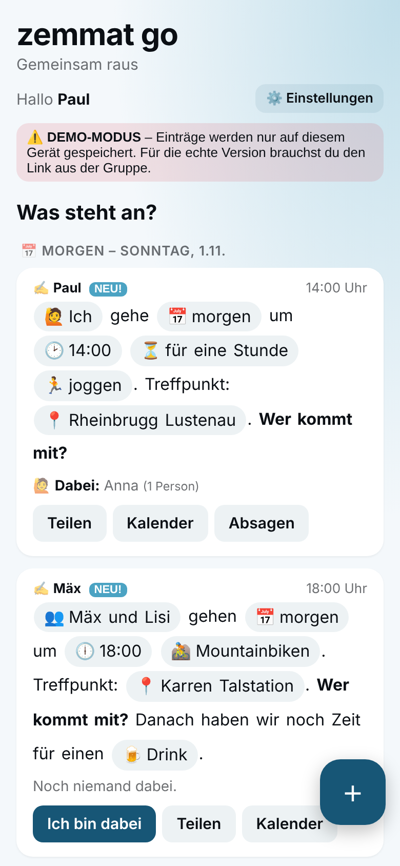
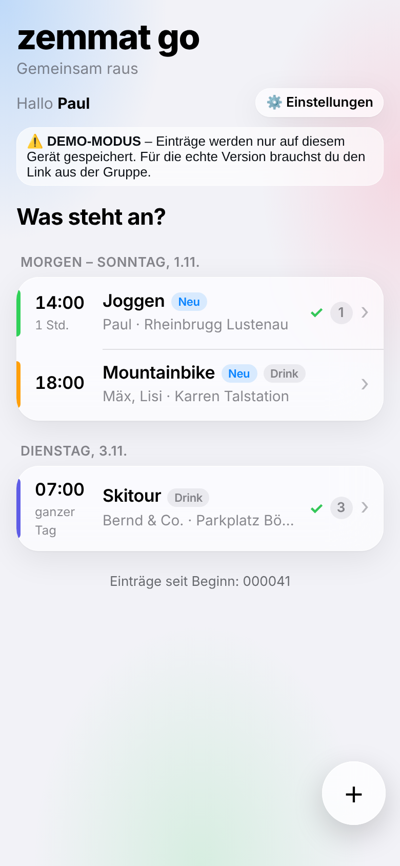
v1.4: Langweilig als eigene iOS-2026-Oberfläche – Terminliste, Detail-Sheet, Eingabeformular
Claude-Session: https://claude.ai/code/session_01J2EUEaQWZNyzNwErDHdukf

diff --git a/index.html b/index.html
@@ -218,6 +218,94 @@ footer{border-top:3px double var(--navy); text-align:center; padding:12px 8px 16
 [data-theme=modern] footer{border:0; color:var(--m-muted); font:13px var(--m-font)}
 [data-theme=modern] .lcd{background:none; border:0; color:var(--m-muted); font:inherit; letter-spacing:0; padding:0}
 [data-theme=modern] .err{font-family:var(--m-font)}
+/* ---------- Langweilig = iOS 2026 (Liquid Glass) ---------- */
+[data-theme=modern]{
+  --g-bg:#f2f2f7; --g-glass:rgba(255,255,255,.62); --g-glass2:rgba(255,255,255,.78); --g-edge:rgba(255,255,255,.75); --g-hair:rgba(60,60,67,.14);
+  --g-ink:#000; --g-sec:rgba(60,60,67,.6); --g-tint:#0a84ff; --g-red:#ff3b30; --g-green:#34c759; --g-fill:rgba(118,118,128,.12);
+  --g-shadow:0 8px 32px rgba(0,0,0,.08), 0 1px 2px rgba(0,0,0,.04);
+}
+@media (prefers-color-scheme:dark){[data-theme=modern]{
+  --g-bg:#000; --g-glass:rgba(44,44,46,.55); --g-glass2:rgba(44,44,46,.82); --g-edge:rgba(255,255,255,.14); --g-hair:rgba(84,84,88,.5);
+  --g-ink:#fff; --g-sec:rgba(235,235,245,.6); --g-tint:#0a84ff; --g-fill:rgba(118,118,128,.24); --g-shadow:0 8px 32px rgba(0,0,0,.5);
+}}
+html[data-theme=modern]{background:var(--g-bg)}
+[data-theme=modern] body{min-height:100vh; color:var(--g-ink); background:
+  radial-gradient(60% 40% at 0% 0%, rgba(10,132,255,.22), transparent 70%),
+  radial-gradient(50% 35% at 100% 20%, rgba(255,55,95,.14), transparent 70%),
+  radial-gradient(60% 40% at 50% 100%, rgba(48,209,88,.14), transparent 70%), var(--g-bg) fixed; font-family:var(--m-font)}
+[data-theme=modern] .wordart{font-size:34px; font-weight:800; letter-spacing:-.8px; color:var(--g-ink)}
+[data-theme=modern] .sub, [data-theme=modern] .hello{color:var(--g-sec)}
+[data-theme=modern] .hello b{color:var(--g-ink)}
+[data-theme=modern] #setBtn{background:var(--g-glass); -webkit-backdrop-filter:blur(20px) saturate(180%); backdrop-filter:blur(20px) saturate(180%);
+  box-shadow:inset 0 0 0 .5px var(--g-edge), var(--g-shadow); border-radius:999px; color:var(--g-ink)}
+[data-theme=modern] main h2{font-size:22px; font-weight:700; letter-spacing:-.4px; color:var(--g-ink)}
+[data-theme=modern] .demo{background:var(--g-glass); -webkit-backdrop-filter:blur(20px); backdrop-filter:blur(20px); box-shadow:inset 0 0 0 .5px var(--g-edge); border-radius:16px; font-size:13px}
+.ios-sec{display:none}
+[data-theme=modern] .ios-sec{display:block; background:none; color:var(--g-sec); font:600 13px var(--m-font); text-transform:uppercase; letter-spacing:.4px; margin:22px 4px 6px; padding:0}
+.ios-list{border-radius:22px; overflow:hidden; background:var(--g-glass); -webkit-backdrop-filter:blur(24px) saturate(180%); backdrop-filter:blur(24px) saturate(180%);
+  box-shadow:inset 0 0 0 .5px var(--g-edge), inset 0 1px 0 rgba(255,255,255,.35), var(--g-shadow)}
+.ios-row{all:unset; box-sizing:border-box; display:flex; align-items:center; gap:14px; width:100%; padding:12px 14px 12px 18px; cursor:pointer; position:relative; font-family:var(--m-font); color:var(--g-ink)}
+.ios-row + .ios-row::before{content:""; position:absolute; top:0; left:84px; right:0; border-top:.5px solid var(--g-hair)}
+.ios-row::after{content:""; position:absolute; left:0; top:12px; bottom:12px; width:4px; border-radius:0 4px 4px 0; background:var(--sc,var(--g-tint))}
+.ios-row:active{background:var(--g-fill)}
+.ios-row.flash{animation:iosflash 1.4s 2} @keyframes iosflash{50%{background:rgba(10,132,255,.14)}}
+.ios-time{display:flex; flex-direction:column; width:52px; flex:none; font-variant-numeric:tabular-nums}
+.ios-time b{font-size:17px; font-weight:600} .ios-time small{font-size:12px; color:var(--g-sec)}
+.ios-main{flex:1; min-width:0; display:flex; flex-direction:column; gap:1px}
+.ios-title{font-size:17px; font-weight:600; letter-spacing:-.2px; display:flex; align-items:center; gap:6px}
+.ios-sub{font-size:14px; color:var(--g-sec); white-space:nowrap; overflow:hidden; text-overflow:ellipsis}
+.ios-new, .ios-tag{font:600 11px var(--m-font); font-style:normal; padding:2px 7px; border-radius:999px; background:rgba(10,132,255,.14); color:var(--g-tint)}
+.ios-tag{background:var(--g-fill); color:var(--g-sec)}
+.ios-acc{display:flex; align-items:center; gap:6px; flex:none}
+.ios-acc i{font-style:normal}
+.ios-count{min-width:22px; height:22px; border-radius:11px; background:var(--g-fill); color:var(--g-sec); font:600 13px/22px var(--m-font); text-align:center; padding:0 6px}
+.ios-ok{color:var(--g-green); font-weight:700}
+.ios-chev{color:var(--g-sec); font-size:22px; opacity:.6; margin-left:2px}
+.s-mtb{--sc:#ff9f0a} .s-rennrad{--sc:#ff375f} .s-gravel{--sc:#a2845e} .s-jogga{--sc:#30d158} .s-wandra{--sc:#64d2ff}
+.s-klettra{--sc:#bf5af2} .s-schitour{--sc:#5e5ce6} .s-langlauf{--sc:#40c8e0} .s-schwimma{--sc:#0a84ff} .s-anders{--sc:#8e8e93}
+.ios-empty{display:flex; flex-direction:column; align-items:center; gap:6px; padding:56px 20px; text-align:center; color:var(--g-sec); font-family:var(--m-font)}
+.ios-empty b{font-size:20px; color:var(--g-ink)}
+.ios-btn{all:unset; box-sizing:border-box; margin-top:14px; padding:13px 22px; border-radius:999px; background:var(--g-tint); color:#fff; font:600 17px var(--m-font); cursor:pointer; text-align:center;
+  box-shadow:inset 0 1px 0 rgba(255,255,255,.35), 0 6px 18px rgba(10,132,255,.35)}
+.ios-btn.wide{display:block; width:100%; margin:16px 0 4px}
+.ios-btn.tinted{background:rgba(10,132,255,.14); color:var(--g-tint); box-shadow:none}
+.ios-btn:active{transform:scale(.98)}
+[data-theme=modern] #plus{border-radius:50%; width:62px; height:62px; color:var(--g-ink); background:var(--g-glass2);
+  -webkit-backdrop-filter:blur(20px) saturate(180%); backdrop-filter:blur(20px) saturate(180%);
+  box-shadow:inset 0 0 0 .5px var(--g-edge), inset 0 1px 0 rgba(255,255,255,.6), 0 10px 30px rgba(0,0,0,.18); font:300 34px/1 var(--m-font)}
+/* Sheets */
+[data-theme=modern] .ov{background:rgba(0,0,0,.28)}
+.sheet{display:none}
+[data-theme=modern] .sheet, [data-theme=modern] #ovSet .win, [data-theme=modern] #ovName .win, [data-theme=modern] #ovIntro .win{display:block; background:var(--g-glass2);
+  -webkit-backdrop-filter:blur(40px) saturate(180%); backdrop-filter:blur(40px) saturate(180%); border-radius:28px 28px 0 0; box-shadow:inset 0 .5px 0 var(--g-edge), 0 -10px 40px rgba(0,0,0,.2)}
+.sheet-head{position:sticky; top:0; z-index:2; display:grid; grid-template-columns:1fr auto 1fr; align-items:center; padding:16px 16px 10px; font:600 17px var(--m-font); color:var(--g-ink)}
+.sheet-head > :last-child{justify-self:end} .sheet-head::before{content:""; position:absolute; top:6px; left:50%; width:36px; height:5px; margin-left:-18px; border-radius:3px; background:var(--g-hair)}
+.ios-txt{all:unset; cursor:pointer; color:var(--g-tint); font:17px var(--m-font)} .ios-txt.strong{font-weight:600}
+.ios-txt:disabled{opacity:.4}
+.sheet-body{padding:4px 16px calc(24px + env(safe-area-inset-bottom)); font-family:var(--m-font)}
+.grp{background:var(--g-glass); border-radius:18px; margin:14px 0; overflow:hidden; box-shadow:inset 0 0 0 .5px var(--g-edge)}
+.frow{all:unset; box-sizing:border-box; display:flex; align-items:center; justify-content:space-between; gap:12px; width:100%; min-height:48px; padding:8px 16px; position:relative; font:17px var(--m-font); color:var(--g-ink)}
+.frow + .frow::before, .frow + [hidden] + .frow::before{content:""; position:absolute; top:0; left:16px; right:0; border-top:.5px solid var(--g-hair)}
+.frow[hidden]{display:none}
+.frow > span:first-child{flex:none; color:var(--g-ink)}
+.frow .v{text-align:right; color:var(--g-sec)} .frow .v small{font-size:13px}
+.frow input:not([type=checkbox]), .frow select{all:unset; box-sizing:border-box; flex:1; min-width:0; text-align:right; font:17px var(--m-font); color:var(--g-sec); padding:4px 0}
+.frow > input:only-child{text-align:left; color:var(--g-ink)}
+.frow select{text-align-last:right; -webkit-appearance:none; appearance:none; cursor:pointer}
+.frow input::placeholder{color:var(--g-sec); opacity:.7}
+.frow.link{cursor:pointer; color:var(--g-tint)} .frow.link.danger{color:var(--g-red)} .frow.link:active{background:var(--g-fill)}
+.sw{-webkit-appearance:none; appearance:none; flex:none; width:51px; height:31px; border-radius:16px; background:var(--g-fill); position:relative; cursor:pointer; transition:background .2s; margin:0}
+.sw::after{content:""; position:absolute; top:2px; left:2px; width:27px; height:27px; border-radius:50%; background:#fff; box-shadow:0 3px 8px rgba(0,0,0,.15); transition:transform .2s}
+.sw:checked{background:var(--g-green)} .sw:checked::after{transform:translateX(20px)}
+.seg{display:inline-flex; background:var(--g-fill); border-radius:10px; padding:2px; gap:2px}
+.seg button{all:unset; cursor:pointer; padding:6px 14px; border-radius:8px; font:500 14px var(--m-font); color:var(--g-ink)}
+.seg button.on{background:var(--g-glass2); box-shadow:0 2px 6px rgba(0,0,0,.12), inset 0 0 0 .5px var(--g-edge); font-weight:600}
+.gfoot{margin:-6px 16px 10px; font:13px var(--m-font); color:var(--g-sec)} .gfoot.err{color:var(--g-red)} .gfoot:empty{display:none}
+.d-hero{padding:6px 4px 0} .d-hero h2{margin:0; font:800 30px/1.1 var(--m-font); letter-spacing:-.6px; color:var(--g-ink)}
+.d-hero h2::before{content:""; display:inline-block; width:12px; height:12px; border-radius:50%; background:var(--sc,var(--g-tint)); margin-right:10px; vertical-align:middle}
+.d-hero p{margin:4px 0 0; color:var(--g-sec); font-size:15px}
+.muted{color:var(--g-sec)}
+
 .themes{display:grid; grid-template-columns:repeat(2,1fr); gap:6px; margin-top:4px}
 .themes .b95{display:flex; flex-direction:column; align-items:center; gap:2px; font-size:13px; padding:8px 4px}
 .themes .b95 span{font-size:24px}
@@ -311,6 +399,41 @@ footer{border-top:3px double var(--navy); text-align:center; padding:12px 8px 16
   </div>
 </div>
 
+<!-- iOS: Formular -->
+<div class="ov" id="ovForm" hidden>
+  <div class="win sheet" role="dialog" aria-modal="true" aria-labelledby="tForm">
+    <div class="sheet-head"><button class="ios-txt" data-close>Abbrechen</button><b id="tForm">Neuer Termin</b><button class="ios-txt strong" id="fSave">Hinzufügen</button></div>
+    <div class="sheet-body">
+      <div class="grp">
+        <label class="frow"><span>Sportart</span><select id="fSport"></select></label>
+        <div class="frow" id="fSportTextRow" hidden><input id="fSportText" maxlength="40" placeholder="Was genau? z. B. Yoga"></div>
+      </div>
+      <div class="grp">
+        <label class="frow"><span>Datum</span><input type="date" id="fDate"></label>
+        <label class="frow"><span>Uhrzeit</span><input type="time" id="fTime" step="300"></label>
+        <label class="frow"><span>Dauer</span><select id="fDauer"></select></label>
+      </div>
+      <div class="grp">
+        <div class="frow"><span>Wer</span><div class="seg" id="fWer"><button type="button" data-v="i">Ich</button><button type="button" data-v="mir">Wir</button><button type="button" data-v="names">Namen</button></div></div>
+        <div class="frow" id="fNamesRow" hidden><input id="fNames" placeholder="z. B. Paul, Anna"></div>
+        <label class="frow"><span>Treffpunkt</span><input id="fTreff" maxlength="60" list="treffList" placeholder="Optional"></label>
+        <label class="frow"><span>Danach auf einen Drink</span><input type="checkbox" class="sw" id="fDrink"></label>
+      </div>
+      <datalist id="treffList"></datalist>
+      <p class="gfoot" id="fPreview"></p>
+      <p class="gfoot err" id="fErr"></p>
+    </div>
+  </div>
+</div>
+
+<!-- iOS: Detail -->
+<div class="ov" id="ovDetail" hidden>
+  <div class="win sheet" role="dialog" aria-modal="true" aria-labelledby="dTitle">
+    <div class="sheet-head"><span></span><b>Termin</b><button class="ios-txt strong" data-close>Fertig</button></div>
+    <div class="sheet-body" id="dBody"></div>
+  </div>
+</div>
+
 <!-- Iistellige -->
 <div class="ov" id="ovSet" hidden>
   <div class="win" role="dialog" aria-modal="true" aria-labelledby="tSet" style="max-width:500px">
@@ -346,7 +469,7 @@ footer{border-top:3px double var(--navy); text-align:center; padding:12px 8px 16
    API_URL = Apps-Script-Web-App (…/exec). Leer → Demo-Modus (localStorage).
    ===================================================================== */
 const API_URL = 'https://script.google.com/macros/s/AKfycbz4xf-IjvvDWh2qYNFIw7fqRttaO1khWAzOT44ZKT8AsNx1l9ad6CIJeIroiMzmIew/exec';
-const VERSION = '1.3';
+const VERSION = '1.4';
 // Begrüßungs-GIF im Intro (z. B. Giphy-Link „…/giphy.gif“). Leer = ohne GIF.
 const INTRO_GIF = '';
 
@@ -530,6 +653,7 @@ function keyUi() {
 function render() {
   const now = new Date(), me = myName();
   const evs = EVENTS.filter(e => endOf(e) > now).sort((a, b) => startOf(a) - startOf(b));
+  if (HD()) return renderIOS(evs, me);
   if (!evs.length) {
     $('#list').innerHTML = `<div class="leerliste"><span class="e">🦗</span>${T('Do isch no nüt los.<br>Mach du da Afang!', 'Noch keine Termine.<br>Trag den ersten ein!')}<br><br><button class="b95 big" onclick="openNew()">${T('➕ I gang …', '+ Neuer Termin')}</button></div>`;
     return;
@@ -559,10 +683,13 @@ function render() {
   if (location.hash.startsWith('#e')) { const el = document.getElementById(location.hash.slice(1)); if (el && !el.dataset.done) { el.scrollIntoView({block: 'center'}); el.classList.add('flash'); el.dataset.done = 1; } }
 }
 
-$('#list').addEventListener('click', async ev => {
+$('#list').addEventListener('click', ev => {
+  const r = ev.target.closest('[data-open]'); if (r) return openDetail(r.dataset.open);
   const b = ev.target.closest('button[data-a]'); if (!b) return;
   const e = EVENTS.find(x => x.id === b.dataset.id); if (!e) return;
-  const a = b.dataset.a;
+  doAct(b.dataset.a, e, b);
+});
+async function doAct(a, e, b) {
   if (a === 'wa') return share(e);
   if (a === 'ics') return ics(e);
   const name = myName() || await askName(); if (!name) return;
@@ -572,8 +699,10 @@ $('#list').addEventListener('click', async ev => {
     const j = await store.call(a, {id: e.id, name});
     if (a === 'cancel') EVENTS = EVENTS.filter(x => x !== e); else Object.assign(e, j.event);
     render(); status(a === 'join' ? T('Super, du bisch dabei! 🎉', 'Du bist dabei.') : a === 'leave' ? T('Schad – vlicht s\'nögscht Mol.', 'Abgemeldet.') : T('Abgsagt.', 'Abgesagt.'));
+    if (!$('#ovDetail').hidden) { if (a === 'cancel') closeOv('#ovDetail'); else drawDetail(e); }
+    return true;
   } catch (x) { status('Fehler: ' + x.message, true); b.disabled = false; alert(T('Hoppla: ', 'Fehler: ') + x.message); }
-});
+}
 
 function link(e) { return location.origin + location.pathname + (KEY ? '?k=' + encodeURIComponent(KEY) : DEMO && qs.has('demo') ? '?demo' : '') + '#e' + e.id; }
 async function share(e) {
@@ -625,7 +754,7 @@ function closeOv(s) {
 document.querySelectorAll('.ov').forEach(o => {
   o.addEventListener('click', e => { if (e.target === o || e.target.closest('[data-close]')) closeOv('#' + o.id); });
 });
-document.addEventListener('keydown', e => { if (e.key === 'Escape') ['#ovName', '#ovNew', '#ovSet', '#ovIntro'].forEach(s => { if (!$(s).hidden) closeOv(s); }); });
+document.addEventListener('keydown', e => { if (e.key === 'Escape') ['#ovName', '#ovNew', '#ovSet', '#ovIntro', '#ovForm', '#ovDetail'].forEach(s => { if (!$(s).hidden) closeOv(s); }); });
 
 /* ---------- Neuer Termin: Lückentext ---------- */
 let draft = null, sel = null;
@@ -636,6 +765,7 @@ function freshDraft() {
 }
 async function openNew() {
   const n = myName() || await askName(); if (!n) return;
+  if (HD()) return openForm();
   draft = freshDraft(); sel = null; $('#newErr').textContent = ''; drawNew(); $('#pk').hidden = true; openOv('#ovNew');
 }
 window.openNew = openNew;
@@ -728,6 +858,112 @@ $('#send').onclick = async () => {
     const el = document.getElementById('e' + j.event.id); if (el) { el.scrollIntoView({block: 'center', behavior: 'smooth'}); el.classList.add('flash'); }
   } catch (x) { $('#newErr').textContent = T('Hoppla: ', 'Fehler: ') + x.message; status('Fehler: ' + x.message, true); }
   finally { b.disabled = false; b.textContent = T('📨 Abschicka!', 'Eintragen'); }
+};
+
+/* ---------- Langweilig: iOS-Liste, Formular, Detail ---------- */
+const DUR_SHORT = {h05: '30 Min.', h1: '1 Std.', h15: '1,5 Std.', h2: '2 Std.', h3: '3 Std.', halb: 'halber Tag', ganz: 'ganzer Tag'};
+function sportName(e) { const s = SPORT[e.sport] || SPORT.anders; return e.sport === 'anders' ? (e.sportText || 'Aktivität') : s.lh; }
+function werPlain(e) {
+  const w = e.wer || {mode: 'i'};
+  if (w.mode === 'names' && (w.names || []).length) return w.names.join(', ');
+  return e.von + (w.mode === 'mir' ? ' & Co.' : '');
+}
+function renderIOS(evs, me) {
+  if (!evs.length) {
+    $('#list').innerHTML = `<div class="ios-empty"><b>Keine Termine</b><span>Trag den ersten ein – die anderen sehen ihn sofort.</span><button class="ios-btn" onclick="openNew()">Neuer Termin</button></div>`;
+    return;
+  }
+  let h = '', last = '';
+  for (const e of evs) {
+    if (e.datum !== last) { if (last) h += '</div>'; h += `<h3 class="ios-sec">${esc(dayHeading(e.datum))}</h3><div class="ios-list">`; last = e.datum; }
+    const n = (e.dabei || []).length, joined = me && (e.dabei || []).some(x => same(x, me)), mine = me && same(e.von, me);
+    const isNew = Date.now() - new Date(e.erstellt).getTime() < 864e5;
+    const sub = [werPlain(e), e.treffpunkt].filter(Boolean).map(esc).join(' · ');
+    h += `<button class="ios-row s-${esc(e.sport)}" id="e${esc(e.id)}" data-open="${esc(e.id)}">
+      <span class="ios-time"><b>${e.zeit}</b><small>${e.dauer ? DUR_SHORT[e.dauer] : ''}</small></span>
+      <span class="ios-main"><span class="ios-title">${esc(sportName(e))}${isNew ? '<i class="ios-new">Neu</i>' : ''}${e.drink ? '<i class="ios-tag">Drink</i>' : ''}</span>
+        <span class="ios-sub">${sub}</span></span>
+      <span class="ios-acc">${joined || mine ? '<i class="ios-ok">✓</i>' : ''}${n ? `<i class="ios-count">${n}</i>` : ''}<i class="ios-chev">›</i></span>
+    </button>`;
+  }
+  $('#list').innerHTML = h + '</div>';
+  if (location.hash.startsWith('#e')) { const el = document.getElementById(location.hash.slice(1)); if (el && !el.dataset.done) { el.scrollIntoView({block: 'center'}); el.classList.add('flash'); el.dataset.done = 1; } }
+}
+
+let detailId = null;
+function openDetail(id) { const e = EVENTS.find(x => x.id === id); if (!e) return; detailId = id; drawDetail(e); openOv('#ovDetail'); }
+function drawDetail(e) {
+  const me = myName(), mine = me && same(e.von, me), joined = me && (e.dabei || []).some(x => same(x, me));
+  const end = endOf(e), endT = pad(end.getHours()) + ':' + pad(end.getMinutes());
+  const rows = [
+    ['Wann', esc(dayHeading(e.datum)) + '<br>' + e.zeit + (e.dauer ? ' – ' + endT + ' <small>(' + DUR_SHORT[e.dauer] + ')</small>' : ' Uhr')],
+    ['Wer', esc(werPlain(e))],
+    e.treffpunkt ? ['Treffpunkt', esc(e.treffpunkt)] : null,
+    ['Danach', e.drink ? 'Zeit für einen Drink' : '–'],
+    ['Dabei', (e.dabei || []).length ? esc(e.dabei.join(', ')) : '<span class="muted">Noch niemand</span>']
+  ].filter(Boolean);
+  $('#dBody').innerHTML = `<div class="d-hero s-${esc(e.sport)}"><h2 id="dTitle">${esc(sportName(e))}</h2><p>von ${esc(e.von)}</p></div>
+    <div class="grp">${rows.map(r => `<div class="frow"><span>${r[0]}</span><span class="v">${r[1]}</span></div>`).join('')}</div>
+    ${mine ? '' : `<button class="ios-btn wide${joined ? ' tinted' : ''}" data-d="${joined ? 'leave' : 'join'}">${joined ? 'Teilnahme zurückziehen' : 'Ich bin dabei'}</button>`}
+    <div class="grp">
+      <button class="frow link" data-d="wa">Teilen</button>
+      <button class="frow link" data-d="ics">Zum Kalender hinzufügen</button>
+      ${mine ? '<button class="frow link danger" data-d="cancel">Termin absagen</button>' : ''}
+    </div>`;
+}
+$('#dBody').addEventListener('click', ev => {
+  const b = ev.target.closest('[data-d]'); if (!b) return;
+  const e = EVENTS.find(x => x.id === detailId); if (e) doAct(b.dataset.d, e, b);
+});
+
+let fWer = 'i';
+function openForm() {
+  const d = freshDraft();
+  $('#fSport').innerHTML = Object.entries(SPORT).map(([k, s]) => `<option value="${k}">${esc(s.lh)}</option>`).join('');
+  $('#fSport').value = d.sport; $('#fSportText').value = d.sport === 'anders' ? d.sportText : '';
+  $('#fDauer').innerHTML = '<option value="">Offen</option>' + Object.keys(DAUER).map(k => `<option value="${k}">${DUR_SHORT[k]}</option>`).join('');
+  $('#fDauer').value = ''; $('#fDate').value = d.datum; $('#fDate').min = ymd(today0()); $('#fTime').value = d.zeit;
+  $('#fNames').value = ''; $('#fTreff').value = ''; $('#fDrink').checked = false; fWer = 'i'; $('#fErr').textContent = '';
+  let hist = []; try { hist = JSON.parse(localStorage.getItem('zg_treff')) || []; } catch (e) {}
+  $('#treffList').innerHTML = hist.map(t => `<option value="${esc(t)}">`).join('');
+  formSync(); openOv('#ovForm');
+}
+function formDraft() {
+  let wer = {mode: fWer, names: []};
+  if (fWer === 'names') {
+    const n = $('#fNames').value.split(/,|\bund\b|&|\+/).map(cleanName).filter(Boolean).slice(0, 8);
+    wer = n.length > 1 ? {mode: 'names', names: n} : n.length === 1 && !same(n[0], myName()) ? {mode: 'names', names: [myName(), n[0]]} : {mode: 'i', names: []};
+  }
+  const sport = $('#fSport').value;
+  return {wer, datum: $('#fDate').value, zeit: $('#fTime').value, dauer: $('#fDauer').value, sport,
+          sportText: sport === 'anders' ? $('#fSportText').value.trim().slice(0, 40) : '', treffpunkt: $('#fTreff').value.trim().slice(0, 60), drink: $('#fDrink').checked};
+}
+function formSync() {
+  $('#fSportTextRow').hidden = $('#fSport').value !== 'anders';
+  $('#fNamesRow').hidden = fWer !== 'names';
+  $('#fWer').querySelectorAll('button').forEach(b => b.classList.toggle('on', b.dataset.v === fWer));
+  const d = formDraft();
+  const ok = /^\d{4}-\d\d-\d\d$/.test(d.datum) && /^\d\d:\d\d$/.test(d.zeit);
+  $('#fPreview').textContent = ok ? [sportName(d), dayHeading(d.datum).replace(/^.* – /, ''), d.zeit + (d.dauer ? '–' + pad(endOf(d).getHours()) + ':' + pad(endOf(d).getMinutes()) : ' Uhr'), d.treffpunkt].filter(Boolean).join(' · ') : '';
+}
+['#fSport', '#fDate', '#fTime', '#fDauer', '#fNames', '#fTreff', '#fDrink', '#fSportText'].forEach(s => { $(s).addEventListener('input', formSync); $(s).addEventListener('change', formSync); });
+$('#fWer').addEventListener('click', e => { const b = e.target.closest('button'); if (!b) return; fWer = b.dataset.v; formSync(); if (fWer === 'names') $('#fNames').focus(); });
+$('#fSave').onclick = async () => {
+  const d = formDraft(), name = myName(), err = $('#fErr'), b = $('#fSave');
+  if (!/^\d{4}-\d\d-\d\d$/.test(d.datum) || !/^\d\d:\d\d$/.test(d.zeit)) return err.textContent = 'Bitte Datum und Uhrzeit angeben.';
+  if (d.sport === 'anders' && !d.sportText) return err.textContent = 'Bitte die Aktivität angeben.';
+  if (endOf(d) < new Date()) return err.textContent = 'Der Zeitpunkt liegt in der Vergangenheit.';
+  b.disabled = true; err.textContent = '';
+  try {
+    const j = await store.call('create', {event: {...d, von: name}});
+    EVENTS.push(j.event);
+    localStorage.setItem('zg_last', JSON.stringify({sport: d.sport, sportText: d.sportText}));
+    if (d.treffpunkt) { let h = []; try { h = JSON.parse(localStorage.getItem('zg_treff')) || []; } catch (e) {} h = [d.treffpunkt, ...h.filter(t => t !== d.treffpunkt)].slice(0, 6); localStorage.setItem('zg_treff', JSON.stringify(h)); }
+    $('#cnt').textContent = String(Number($('#cnt').textContent) + 1).padStart(6, '0');
+    closeOv('#ovForm'); render();
+    const el = document.getElementById('e' + j.event.id); if (el) { el.scrollIntoView({block: 'center', behavior: 'smooth'}); el.classList.add('flash'); }
+  } catch (x) { err.textContent = 'Fehler: ' + x.message; }
+  finally { b.disabled = false; }
 };
 
 /* ---------- Iistellige & Push ---------- */
@@ -824,6 +1060,7 @@ $('#themes').addEventListener('click', e => {
   document.documentElement.dataset.theme = b.dataset.themeSet; localStorage.setItem('zg_theme', b.dataset.themeSet); themeDraw();
   applyLang(); hello(); render(); setDraw();
   if (!$('#ovSet').hidden) $('#pushSports').querySelectorAll('label').forEach(l => { const i = l.querySelector('input'), s = SPORT[i.value]; l.lastChild.textContent = ' ' + s.e + ' ' + sLabel(s); });
+  if (!HD()) { closeOv('#ovForm'); closeOv('#ovDetail'); } else if (!$('#ovNew').hidden) closeOv('#ovNew');
   if (draft && !$('#ovNew').hidden) { drawNew(); picker(); }
   pushSync().catch(() => {});
 });
@@ -864,7 +1101,7 @@ $('#ver').textContent = 'zemmat go ' + VERSION + (DEMO ? ' · DEMO' : '');
 $('#demo').hidden = !DEMO;
 hello(); load();
 if (!localStorage.getItem('zg_intro') && !qs.has('nointro')) openIntro();
-setInterval(() => { if (!document.hidden && $('#ovNew').hidden) load(true); }, 60000);
+setInterval(() => { if (!document.hidden && $('#ovNew').hidden && $('#ovForm').hidden) load(true); }, 60000);
 document.addEventListener('visibilitychange', () => { if (!document.hidden) load(true); });
 </script>
 </body>

diff --git a/README.md b/README.md
@@ -36,7 +36,7 @@ du tragst ii, wenn du gosch, und wer will, kunnt mit.
 - **🔔 Popups (Web Push)** bei neuen Terminen – pro Gerät einstellbar, für welche Sportarten. Eigene Termine lösen kein Popup aus.
   iPhone: ab iOS 16.4, **nur** wenn die App am Home-Bildschirm liegt. Android/Desktop: direkt im Browser.
 - **⚙ Iistellige:** Name, Popups (an/aus, Sportarten, Test-Popup), Design
-- **🎨 Zwei Designs:** 🌈 90er im Vorarlberger Dialekt (Standard) · 😐 Langweilig – modern, hell/dunkel, im Stil vom Fahrtenbuch, **auf Hochdeutsch** (auch die Popups)
+- **🎨 Zwei Designs:** 🌈 90er im Vorarlberger Dialekt (Standard) · 😐 Langweilig – eigene Oberfläche im iOS-2026-Stil (Liquid Glass, hell/dunkel): schlichte Terminliste, Detailansicht, Eingabeformular statt Lückentext, **auf Hochdeutsch** (auch die Popups)
 - **Begrüßung** beim ersten Öffnen: „Oa App statt zwölf WhatsApp-Gruppa“ + Anleitung Home-Bildschirm, optional mit GIF (`INTRO_GIF` in `index.html`). Später über ⚙ → „Wia goht des?“
 - 90er-Look: WordArt, Laufschrift, Under Construction, Besucher-Zähler (= Einträge seit Anfang), Webring 😄
 
